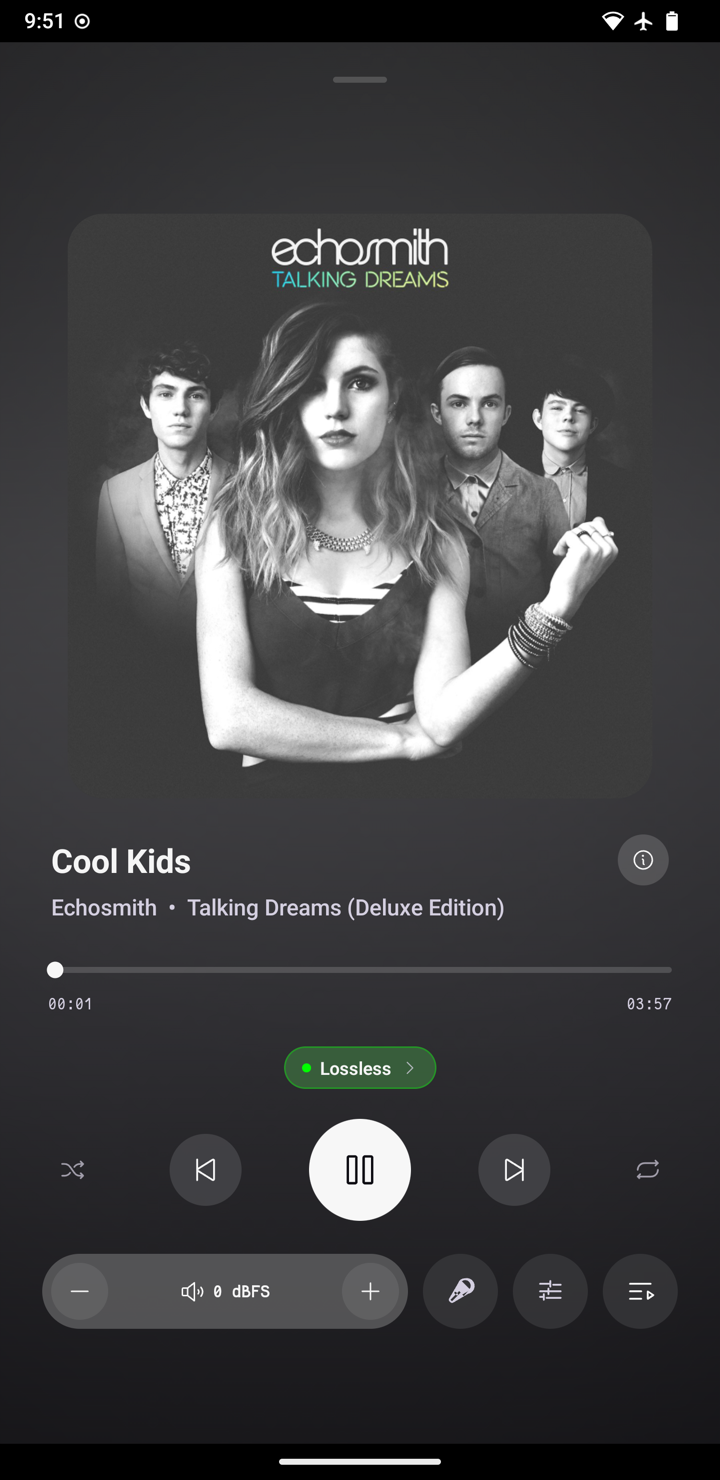
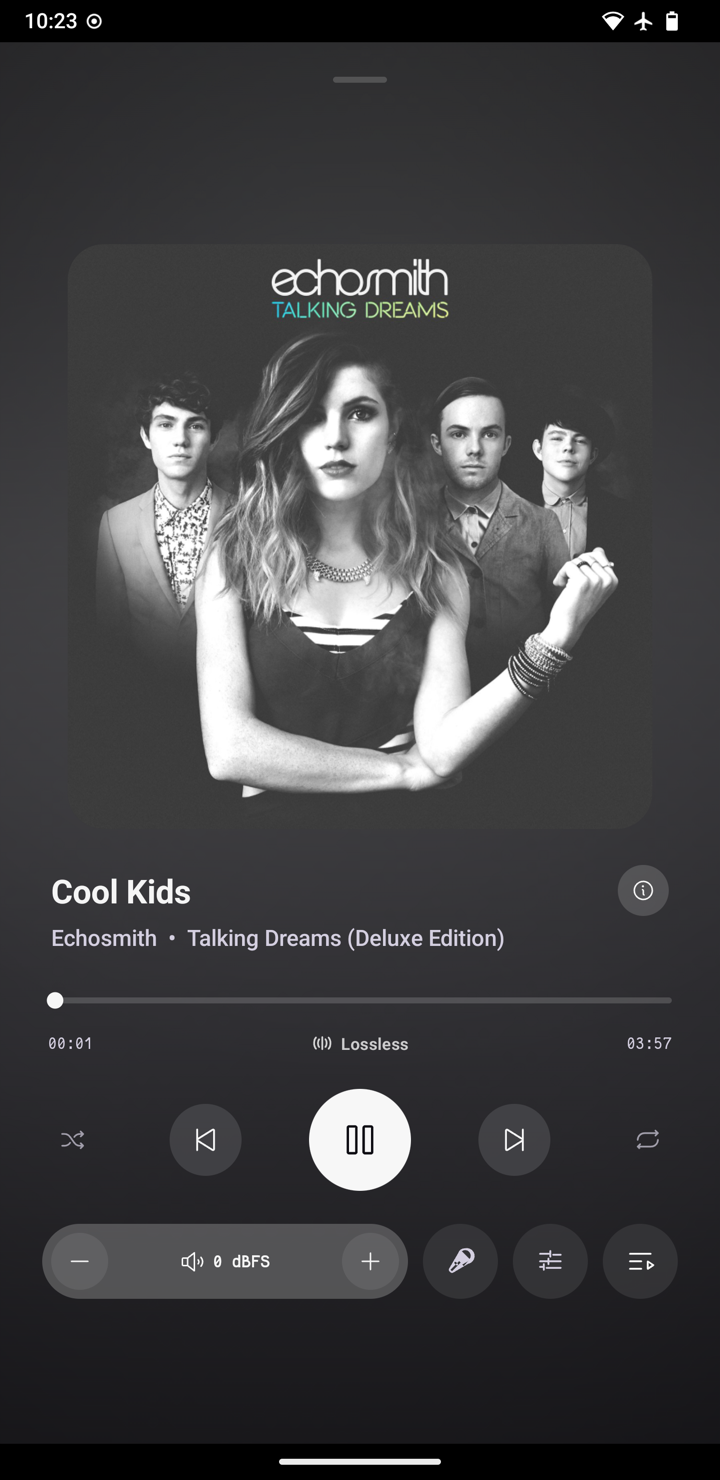
docs(readme): update Now Playing screenshot with Batch 23 indicator layout

diff --git a/README.md b/README.md
@@ -43,7 +43,7 @@ What's in your file is bit-for-bit what reaches your DAC's converter chip. No re
     <td align="center" width="33%">
       <img src="screenshots/01_now_playing.png" alt="Now Playing Screen" width="100%"/>
       <br/><b>Now Playing</b><br/>
-      <sub>Adaptive album art theme, live Audio Quality Badge, precision scrubber, 0 dBFS volume pill, and quick lyrics/DSP/queue controls</sub>
+      <sub>Adaptive album art theme, minimal Lossless / Hi-Res Lossless indicator (tap for Signal Path), precision scrubber, and 0 dBFS volume control</sub>
     </td>
     <td align="center" width="33%">
       <img src="screenshots/04_signal_path.png" alt="Signal Path Inspector" width="100%"/>
